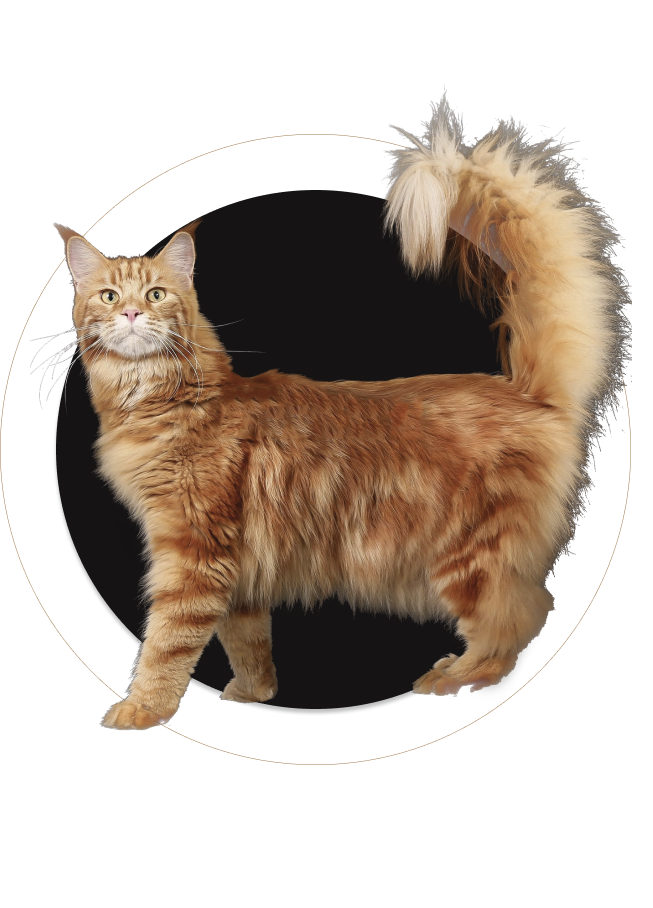
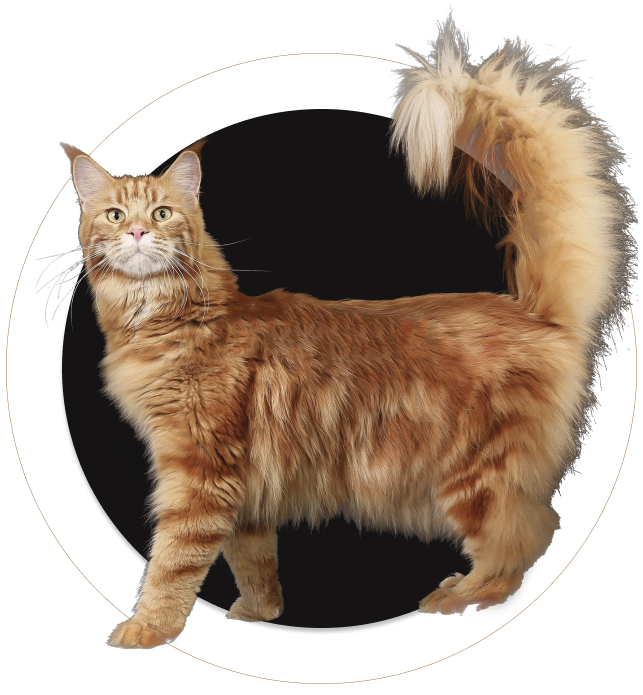
adaptive ready, fix burger, breeds is ready

diff --git a/src/scss/components/main-breeds.scss b/src/scss/components/main-breeds.scss
@@ -23,41 +23,57 @@
     justify-content: center;
     align-items: center;
     flex-direction: column;
+    position: relative;
 }
 
 .features__content-picture{
-    float: left;
-    shape-outside: circle(50%);
-    clip-path: circle(50%);
     max-height: 100%;
     max-width: 623px;
     object-fit: cover;
+    margin: 0 auto;
 }    
+
 .features__content-list{
     list-style-type:none;
+    padding: 0;
 }
 
 .features__content-item{
-    &:nth-child(odd) .features__content-text::after{
-        content: '';
-        width: 15px;
-        height: 15px;
-        background-color: $main-color;
-        border-radius: 10px;
-        display: block;
-        float: right;
-        padding: 3px 5px;
-        
+    position: absolute;
+    display: flex;
+    align-items: center;
+    justify-content: space-between;
+    &:nth-child(1){
+        top: 25%;
+        width: 320px;
+        left: 5.1%;
     }
-    &:nth-child(even) .features__content-text::before{
-        content: '';
-        width: 15px;
-        height: 15px;
-        background-color: $main-color;
-        border-radius: 10px;
-        display: block;
-        float: left;
-        padding: 3px 5px;
+    &:nth-child(2){
+        top: 40%;
+        width: 250px;
+        right: 9.6%;
+    }
+    &:nth-child(3){
+        top: 60%;
+        width: 250px;
+        left: 8.75%;
+    }
+    &:nth-child(4){
+        top: 67%;
+        width: 240px;
+        right: 13%;
+    }
+    &:nth-child(odd)::after{
+        content: '•';
+        font-size: 55px;
+        color: $main-color;
+        margin:0 0 20px 23px;
+    }
+    &:nth-child(even)::before{
+        content: '•';
+        font-size: 55px;
+        color: $main-color;
+        margin:0 23px 20px;
     }
 
     &:nth-child(odd) .features__content-text{
@@ -82,9 +98,91 @@
 
 
 @media (max-width: $large-width) {
+    .main-breeds_lead{
+        width: 80%;
+        padding: 0 20px;
+        margin-bottom: 40px;
+    }
 
+    .features__content-picture{
+        max-width: 440px;
+    } 
+
+    .features__content-item{
+        &:nth-child(1){
+            top: 23%;
+            width: 168px;
+            left: -0.4%;
+        }
+        &:nth-child(2){
+            top: 35%;
+            width: 132px;
+            right: 2.8%;
+        }
+        &:nth-child(3){
+            top: 60%;
+            width: 160px;
+            left: -1.6%;
+        }
+        &:nth-child(4){
+            top: 67%;
+            width: 140px;
+            right: 5.6%;
+        }
+        &:nth-child(odd)::after{
+            font-size: 44px;
+            margin:0 0 40px 12px;
+        }
+        &:nth-child(even)::before{
+            font-size: 44px;
+            margin:0 12px 40px;
+        }
+    }
+    .features__content-text{
+        font-size: 14px;
+        line-height: 21px;
+    }
 } 
 
 @media (max-width: $tablet-width) {
+    .main-breeds_lead{
+        width: 100%;
+        padding: 0 5px;
+        margin-bottom: 40px;
+        text-align: center;
+    }
 
+    .features__content-picture{
+        max-width: 290px;
+    } 
+
+    .features__content-item{
+        position: static; 
+        &:nth-child(1),&:nth-child(2),&:nth-child(3),&:nth-child(4){
+            width: 100%;
+        }
+        &:nth-child(odd)::after{
+            content: none;
+            margin:0;
+        }
+        &:nth-child(even)::before,&:nth-child(odd)::before{
+            content: '•';
+            font-size: 35px;
+            color: $main-color;
+            margin:0 10px 14px;
+        }
+        &:nth-child(odd) .features__content-text{
+            text-align: left;
+        }
+        &:last-child::before{
+            margin:0 10px 0px;
+        }
+
+    }
+
+    .features__content-text{
+        line-height: 19px;
+        text-align: left;
+        margin: 5px 0;
+    }
 }

diff --git a/src/index.html b/src/index.html
@@ -32,6 +32,7 @@
                             <use xlink:href="img/crown.svg#crown"></use>
                         </svg>
                     </a>
+                    
                     <div class="burger-btn">
                         <button type="button" class="burger burger--active" id="burger"><span class="burger-line"></span></button>
                     </div>
@@ -131,7 +132,7 @@
                         <p class="lead__text-subtitle subtitle">Мейн-Кун - это порода, которая вызывает к себе уважение. Приобретая в свой дом этого питомца, вы получите умное животное, которому нет равных</p>
                     </div>
                     <div class="features__content">
-                            <img class="features__content-picture" src="img/котя3.png" alt="котя">
+                        <img class="features__content-picture" src="img/котя3.png" alt="котя">
 
                         <ul class="features__content-list">
                             <li class="features__content-item">
@@ -357,7 +358,7 @@
                                         <p class="review__content-desc">Я выражаю огромную благодарность вашему питомнику.  Мой Феликс невероятно умен и воспитан. Огромным плюсом питомника является возможность консультироваться в любое время</p>
 
                                         <div class="review__socials">
-                                            <span class="review__socials-date">24 Мая 2018</span>   
+                                            <time datatime="2018-05-24" class="review__socials-date">24 Мая 2018</time>   
                                             <a href="#" class="review__socials-link">
                                                 <svg class="review__social-icon"  width="21" height="15" viewBox="0 0 21 15">
                                                     <use xlink:href="img/Twitter.svg#twitter-icon"></use>

diff --git a/src/scss/components/header.scss b/src/scss/components/header.scss
@@ -80,9 +80,6 @@
     transition: all .3s ease;
     margin: 0;
     padding: 0;
-    &:hover .burger-line, &:hover .burger-line::before, &:hover .burger-line::after{
-        background-color: #fff;
-    }
 }
 
 .burger-line {
@@ -118,11 +115,9 @@
 
 .burger.burger--active .burger-line::before{
     transform: rotate(45deg);
-    background-color: #fff;
 }
 .burger.burger--active .burger-line::after{
     transform: rotate(-45deg);
-    background-color: #fff;
 }
 
 
@@ -267,7 +262,7 @@
 }
 
 @media (max-width: $tablet-width) {
-    
+
     .navbar__menu{
         display: block;
         width: 100%;
@@ -324,9 +319,13 @@
         right: 0;
         top: 31px;
         width: auto;
-        display: block;
+        display: none;
         align-items: normal;
         justify-content: normal;
+    }
+
+    .block{
+        display: block;
     }
 
     .intro{

diff --git a/src/js/script.js b/src/js/script.js
@@ -14,6 +14,7 @@ let menuOpen = false;
 (function (){
     burgerMenu.classList.remove('navbar__menu--active');
     burger.classList.remove('burger--active');
+    document.querySelector('.burger-btn').classList.add('block');
 }());
 
 burger.addEventListener('click', (e)=>{

diff --git a/src/scss/components/footer.scss b/src/scss/components/footer.scss
@@ -56,7 +56,7 @@
 @media (max-width: $tablet-width) {
 
     .footer__inner{
-        padding: 40px 10px;
+        padding: 40px 10px 10px;
         display: flex;
         flex-direction: column-reverse;
         justify-content: space-between;
